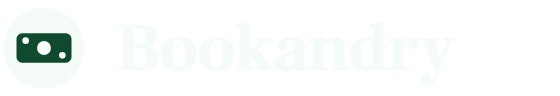
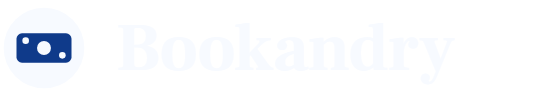
Account emails are sapphire like the app, with a neutral page behind them instead of the old green-grey

Changed region(s): [[0.0304, 0.3438, 0.1518, 0.6562]]

diff --git a/supabase/templates/reset-password.html b/supabase/templates/reset-password.html
@@ -8,25 +8,25 @@
 <meta name="supported-color-schemes" content="light">
 <title>איפוס סיסמה</title>
 </head>
-<body style="margin:0;padding:0;background:#f1f4f2;" dir="rtl">
+<body style="margin:0;padding:0;background:#f4f4f5;" dir="rtl">
 <div style="display:none;max-height:0;overflow:hidden;opacity:0;">בחירת סיסמה חדשה לחשבון Bookandry שלך.</div>
-<table role="presentation" width="100%" cellpadding="0" cellspacing="0" border="0" style="background:#f1f4f2;">
+<table role="presentation" width="100%" cellpadding="0" cellspacing="0" border="0" style="background:#f4f4f5;">
 <tr><td align="center" style="padding:32px 16px;">
 <table role="presentation" width="100%" cellpadding="0" cellspacing="0" border="0" style="max-width:560px;background:#ffffff;border-radius:16px;overflow:hidden;">
-<tr><td bgcolor="#0f492e" style="background:#0f492e;padding:28px 32px 20px;" align="right">
-<a href="https://bookandry.com" style="text-decoration:none;"><img src="https://bookandry.com/email/header.png" width="280" height="48" alt="Bookandry" style="display:block;border:0;width:280px;height:48px;color:#f5fcf7;font:700 28px Georgia,serif;"></a>
+<tr><td bgcolor="#0f3a8a" style="background:#0f3a8a;padding:28px 32px 20px;" align="right">
+<a href="https://bookandry.com" style="text-decoration:none;"><img src="https://bookandry.com/email/header.png" width="280" height="48" alt="Bookandry" style="display:block;border:0;width:280px;height:48px;color:#f7faff;font:700 28px Georgia,serif;"></a>
 </td></tr>
-<tr><td bgcolor="#0f492e" style="background:#0f492e;line-height:0;font-size:0;"><img src="https://bookandry.com/email/band.png" width="560" height="44" alt="" style="display:block;border:0;width:100%;max-width:560px;height:auto;"></td></tr>
+<tr><td bgcolor="#0f3a8a" style="background:#0f3a8a;line-height:0;font-size:0;"><img src="https://bookandry.com/email/band.png" width="560" height="44" alt="" style="display:block;border:0;width:100%;max-width:560px;height:auto;"></td></tr>
 <tr><td dir="rtl" align="right" style="padding:36px 32px 8px;font-family:-apple-system, BlinkMacSystemFont, 'Segoe UI', Roboto, Helvetica, Arial, sans-serif;color:#18181b;text-align:right;">
 <h1 style="margin:0 0 16px;font-size:24px;line-height:1.3;font-weight:700;color:#18181b;">איפוס סיסמה</h1>
 <p style="margin:0 0 28px;font-size:16px;line-height:1.6;color:#18181b;">התקבלה בקשה לאפס את הסיסמה של חשבון Bookandry <span dir="ltr" style="unicode-bidi:embed">{{ .Email }}</span>. אם הבקשה הגיעה ממך, אפשר לבחור סיסמה חדשה:</p>
 <table role="presentation" cellpadding="0" cellspacing="0" border="0" align="right" style="margin:0 0 28px;"><tr>
-<td bgcolor="#0f492e" style="border-radius:10px;background:#0f492e;">
+<td bgcolor="#0f3a8a" style="border-radius:10px;background:#0f3a8a;">
 <a href="{{ .ConfirmationURL }}" style="display:inline-block;padding:14px 28px;font-family:-apple-system, BlinkMacSystemFont, 'Segoe UI', Roboto, Helvetica, Arial, sans-serif;font-size:16px;font-weight:600;line-height:1;color:#ffffff;text-decoration:none;border-radius:10px;">בחירת סיסמה חדשה</a>
 </td></tr></table>
 <p style="clear:both;margin:0 0 24px;font-size:14px;line-height:1.6;color:#52525b;">לא ביקשת? אפשר להתעלם מהמייל הזה, והסיסמה תישאר כמו שהיא. הקישור עובד פעם אחת.</p>
 <p style="margin:0 0 8px;font-size:13px;line-height:1.5;color:#52525b;">הכפתור לא עובד? אפשר להעתיק את הקישור הזה לדפדפן:</p>
-<p dir="ltr" style="margin:0 0 28px;font-size:13px;line-height:1.5;word-break:break-all;text-align:left;"><a href="{{ .ConfirmationURL }}" style="color:#0f492e;">{{ .ConfirmationURL }}</a></p>
+<p dir="ltr" style="margin:0 0 28px;font-size:13px;line-height:1.5;word-break:break-all;text-align:left;"><a href="{{ .ConfirmationURL }}" style="color:#0f3a8a;">{{ .ConfirmationURL }}</a></p>
 </td></tr>
 <tr><td dir="rtl" align="right" style="padding:20px 32px 28px;border-top:1px solid #e4e4e7;font-family:-apple-system, BlinkMacSystemFont, 'Segoe UI', Roboto, Helvetica, Arial, sans-serif;font-size:12px;line-height:1.6;color:#52525b;text-align:right;">נשלח מ־Bookandry אל <span dir="ltr" style="unicode-bidi:embed">{{ .Email }}</span>. <a href="https://bookandry.com" style="color:#52525b;">bookandry.com</a></td></tr>
 </table>
@@ -44,25 +44,25 @@
 <meta name="supported-color-schemes" content="light">
 <title>Reset your password</title>
 </head>
-<body style="margin:0;padding:0;background:#f1f4f2;" dir="ltr">
+<body style="margin:0;padding:0;background:#f4f4f5;" dir="ltr">
 <div style="display:none;max-height:0;overflow:hidden;opacity:0;">Choose a new password for your Bookandry account.</div>
-<table role="presentation" width="100%" cellpadding="0" cellspacing="0" border="0" style="background:#f1f4f2;">
+<table role="presentation" width="100%" cellpadding="0" cellspacing="0" border="0" style="background:#f4f4f5;">
 <tr><td align="center" style="padding:32px 16px;">
 <table role="presentation" width="100%" cellpadding="0" cellspacing="0" border="0" style="max-width:560px;background:#ffffff;border-radius:16px;overflow:hidden;">
-<tr><td bgcolor="#0f492e" style="background:#0f492e;padding:28px 32px 20px;" align="left">
-<a href="https://bookandry.com" style="text-decoration:none;"><img src="https://bookandry.com/email/header.png" width="280" height="48" alt="Bookandry" style="display:block;border:0;width:280px;height:48px;color:#f5fcf7;font:700 28px Georgia,serif;"></a>
+<tr><td bgcolor="#0f3a8a" style="background:#0f3a8a;padding:28px 32px 20px;" align="left">
+<a href="https://bookandry.com" style="text-decoration:none;"><img src="https://bookandry.com/email/header.png" width="280" height="48" alt="Bookandry" style="display:block;border:0;width:280px;height:48px;color:#f7faff;font:700 28px Georgia,serif;"></a>
 </td></tr>
-<tr><td bgcolor="#0f492e" style="background:#0f492e;line-height:0;font-size:0;"><img src="https://bookandry.com/email/band.png" width="560" height="44" alt="" style="display:block;border:0;width:100%;max-width:560px;height:auto;"></td></tr>
+<tr><td bgcolor="#0f3a8a" style="background:#0f3a8a;line-height:0;font-size:0;"><img src="https://bookandry.com/email/band.png" width="560" height="44" alt="" style="display:block;border:0;width:100%;max-width:560px;height:auto;"></td></tr>
 <tr><td dir="ltr" align="left" style="padding:36px 32px 8px;font-family:-apple-system, BlinkMacSystemFont, 'Segoe UI', Roboto, Helvetica, Arial, sans-serif;color:#18181b;text-align:left;">
 <h1 style="margin:0 0 16px;font-size:24px;line-height:1.3;font-weight:700;color:#18181b;">Reset your password</h1>
 <p style="margin:0 0 28px;font-size:16px;line-height:1.6;color:#18181b;">Someone asked to reset the password for the Bookandry account <span dir="ltr" style="unicode-bidi:embed">{{ .Email }}</span>. If it was you, choose a new one:</p>
 <table role="presentation" cellpadding="0" cellspacing="0" border="0" align="left" style="margin:0 0 28px;"><tr>
-<td bgcolor="#0f492e" style="border-radius:10px;background:#0f492e;">
+<td bgcolor="#0f3a8a" style="border-radius:10px;background:#0f3a8a;">
 <a href="{{ .ConfirmationURL }}" style="display:inline-block;padding:14px 28px;font-family:-apple-system, BlinkMacSystemFont, 'Segoe UI', Roboto, Helvetica, Arial, sans-serif;font-size:16px;font-weight:600;line-height:1;color:#ffffff;text-decoration:none;border-radius:10px;">Choose a new password</a>
 </td></tr></table>
 <p style="clear:both;margin:0 0 24px;font-size:14px;line-height:1.6;color:#52525b;">Didn't ask for this? Ignore this email and your password stays as it is. The link works once.</p>
 <p style="margin:0 0 8px;font-size:13px;line-height:1.5;color:#52525b;">Button not working? Copy this link into your browser:</p>
-<p dir="ltr" style="margin:0 0 28px;font-size:13px;line-height:1.5;word-break:break-all;text-align:left;"><a href="{{ .ConfirmationURL }}" style="color:#0f492e;">{{ .ConfirmationURL }}</a></p>
+<p dir="ltr" style="margin:0 0 28px;font-size:13px;line-height:1.5;word-break:break-all;text-align:left;"><a href="{{ .ConfirmationURL }}" style="color:#0f3a8a;">{{ .ConfirmationURL }}</a></p>
 </td></tr>
 <tr><td dir="ltr" align="left" style="padding:20px 32px 28px;border-top:1px solid #e4e4e7;font-family:-apple-system, BlinkMacSystemFont, 'Segoe UI', Roboto, Helvetica, Arial, sans-serif;font-size:12px;line-height:1.6;color:#52525b;text-align:left;">Sent by Bookandry to <span dir="ltr" style="unicode-bidi:embed">{{ .Email }}</span>. <a href="https://bookandry.com" style="color:#52525b;">bookandry.com</a></td></tr>
 </table>

diff --git a/supabase/templates/confirm-signup.html b/supabase/templates/confirm-signup.html
@@ -8,25 +8,25 @@
 <meta name="supported-color-schemes" content="light">
 <title>אישור כתובת המייל</title>
 </head>
-<body style="margin:0;padding:0;background:#f1f4f2;" dir="rtl">
+<body style="margin:0;padding:0;background:#f4f4f5;" dir="rtl">
 <div style="display:none;max-height:0;overflow:hidden;opacity:0;">נשאר צעד אחד ליצירת החשבון ב־Bookandry.</div>
-<table role="presentation" width="100%" cellpadding="0" cellspacing="0" border="0" style="background:#f1f4f2;">
+<table role="presentation" width="100%" cellpadding="0" cellspacing="0" border="0" style="background:#f4f4f5;">
 <tr><td align="center" style="padding:32px 16px;">
 <table role="presentation" width="100%" cellpadding="0" cellspacing="0" border="0" style="max-width:560px;background:#ffffff;border-radius:16px;overflow:hidden;">
-<tr><td bgcolor="#0f492e" style="background:#0f492e;padding:28px 32px 20px;" align="right">
-<a href="https://bookandry.com" style="text-decoration:none;"><img src="https://bookandry.com/email/header.png" width="280" height="48" alt="Bookandry" style="display:block;border:0;width:280px;height:48px;color:#f5fcf7;font:700 28px Georgia,serif;"></a>
+<tr><td bgcolor="#0f3a8a" style="background:#0f3a8a;padding:28px 32px 20px;" align="right">
+<a href="https://bookandry.com" style="text-decoration:none;"><img src="https://bookandry.com/email/header.png" width="280" height="48" alt="Bookandry" style="display:block;border:0;width:280px;height:48px;color:#f7faff;font:700 28px Georgia,serif;"></a>
 </td></tr>
-<tr><td bgcolor="#0f492e" style="background:#0f492e;line-height:0;font-size:0;"><img src="https://bookandry.com/email/band.png" width="560" height="44" alt="" style="display:block;border:0;width:100%;max-width:560px;height:auto;"></td></tr>
+<tr><td bgcolor="#0f3a8a" style="background:#0f3a8a;line-height:0;font-size:0;"><img src="https://bookandry.com/email/band.png" width="560" height="44" alt="" style="display:block;border:0;width:100%;max-width:560px;height:auto;"></td></tr>
 <tr><td dir="rtl" align="right" style="padding:36px 32px 8px;font-family:-apple-system, BlinkMacSystemFont, 'Segoe UI', Roboto, Helvetica, Arial, sans-serif;color:#18181b;text-align:right;">
 <h1 style="margin:0 0 16px;font-size:24px;line-height:1.3;font-weight:700;color:#18181b;">אישור כתובת המייל</h1>
 <p style="margin:0 0 28px;font-size:16px;line-height:1.6;color:#18181b;">ברוכים הבאים ל־Bookandry. כדי לסיים ליצור את החשבון, צריך לאשר ש־<span dir="ltr" style="unicode-bidi:embed">{{ .Email }}</span> היא הכתובת שלך:</p>
 <table role="presentation" cellpadding="0" cellspacing="0" border="0" align="right" style="margin:0 0 28px;"><tr>
-<td bgcolor="#0f492e" style="border-radius:10px;background:#0f492e;">
+<td bgcolor="#0f3a8a" style="border-radius:10px;background:#0f3a8a;">
 <a href="{{ .ConfirmationURL }}" style="display:inline-block;padding:14px 28px;font-family:-apple-system, BlinkMacSystemFont, 'Segoe UI', Roboto, Helvetica, Arial, sans-serif;font-size:16px;font-weight:600;line-height:1;color:#ffffff;text-decoration:none;border-radius:10px;">אישור כתובת המייל</a>
 </td></tr></table>
 <p style="clear:both;margin:0 0 24px;font-size:14px;line-height:1.6;color:#52525b;">לא יצרת חשבון? אפשר להתעלם מהמייל הזה ושום דבר לא יקרה.</p>
 <p style="margin:0 0 8px;font-size:13px;line-height:1.5;color:#52525b;">הכפתור לא עובד? אפשר להעתיק את הקישור הזה לדפדפן:</p>
-<p dir="ltr" style="margin:0 0 28px;font-size:13px;line-height:1.5;word-break:break-all;text-align:left;"><a href="{{ .ConfirmationURL }}" style="color:#0f492e;">{{ .ConfirmationURL }}</a></p>
+<p dir="ltr" style="margin:0 0 28px;font-size:13px;line-height:1.5;word-break:break-all;text-align:left;"><a href="{{ .ConfirmationURL }}" style="color:#0f3a8a;">{{ .ConfirmationURL }}</a></p>
 </td></tr>
 <tr><td dir="rtl" align="right" style="padding:20px 32px 28px;border-top:1px solid #e4e4e7;font-family:-apple-system, BlinkMacSystemFont, 'Segoe UI', Roboto, Helvetica, Arial, sans-serif;font-size:12px;line-height:1.6;color:#52525b;text-align:right;">נשלח מ־Bookandry אל <span dir="ltr" style="unicode-bidi:embed">{{ .Email }}</span>. <a href="https://bookandry.com" style="color:#52525b;">bookandry.com</a></td></tr>
 </table>
@@ -44,25 +44,25 @@
 <meta name="supported-color-schemes" content="light">
 <title>Confirm your email</title>
 </head>
-<body style="margin:0;padding:0;background:#f1f4f2;" dir="ltr">
+<body style="margin:0;padding:0;background:#f4f4f5;" dir="ltr">
 <div style="display:none;max-height:0;overflow:hidden;opacity:0;">One step left to create your Bookandry account.</div>
-<table role="presentation" width="100%" cellpadding="0" cellspacing="0" border="0" style="background:#f1f4f2;">
+<table role="presentation" width="100%" cellpadding="0" cellspacing="0" border="0" style="background:#f4f4f5;">
 <tr><td align="center" style="padding:32px 16px;">
 <table role="presentation" width="100%" cellpadding="0" cellspacing="0" border="0" style="max-width:560px;background:#ffffff;border-radius:16px;overflow:hidden;">
-<tr><td bgcolor="#0f492e" style="background:#0f492e;padding:28px 32px 20px;" align="left">
-<a href="https://bookandry.com" style="text-decoration:none;"><img src="https://bookandry.com/email/header.png" width="280" height="48" alt="Bookandry" style="display:block;border:0;width:280px;height:48px;color:#f5fcf7;font:700 28px Georgia,serif;"></a>
+<tr><td bgcolor="#0f3a8a" style="background:#0f3a8a;padding:28px 32px 20px;" align="left">
+<a href="https://bookandry.com" style="text-decoration:none;"><img src="https://bookandry.com/email/header.png" width="280" height="48" alt="Bookandry" style="display:block;border:0;width:280px;height:48px;color:#f7faff;font:700 28px Georgia,serif;"></a>
 </td></tr>
-<tr><td bgcolor="#0f492e" style="background:#0f492e;line-height:0;font-size:0;"><img src="https://bookandry.com/email/band.png" width="560" height="44" alt="" style="display:block;border:0;width:100%;max-width:560px;height:auto;"></td></tr>
+<tr><td bgcolor="#0f3a8a" style="background:#0f3a8a;line-height:0;font-size:0;"><img src="https://bookandry.com/email/band.png" width="560" height="44" alt="" style="display:block;border:0;width:100%;max-width:560px;height:auto;"></td></tr>
 <tr><td dir="ltr" align="left" style="padding:36px 32px 8px;font-family:-apple-system, BlinkMacSystemFont, 'Segoe UI', Roboto, Helvetica, Arial, sans-serif;color:#18181b;text-align:left;">
 <h1 style="margin:0 0 16px;font-size:24px;line-height:1.3;font-weight:700;color:#18181b;">Confirm your email</h1>
 <p style="margin:0 0 28px;font-size:16px;line-height:1.6;color:#18181b;">Welcome to Bookandry. Confirm that <span dir="ltr" style="unicode-bidi:embed">{{ .Email }}</span> is your address to finish creating your account:</p>
 <table role="presentation" cellpadding="0" cellspacing="0" border="0" align="left" style="margin:0 0 28px;"><tr>
-<td bgcolor="#0f492e" style="border-radius:10px;background:#0f492e;">
+<td bgcolor="#0f3a8a" style="border-radius:10px;background:#0f3a8a;">
 <a href="{{ .ConfirmationURL }}" style="display:inline-block;padding:14px 28px;font-family:-apple-system, BlinkMacSystemFont, 'Segoe UI', Roboto, Helvetica, Arial, sans-serif;font-size:16px;font-weight:600;line-height:1;color:#ffffff;text-decoration:none;border-radius:10px;">Confirm email</a>
 </td></tr></table>
 <p style="clear:both;margin:0 0 24px;font-size:14px;line-height:1.6;color:#52525b;">Didn't create an account? Ignore this email and nothing will happen.</p>
 <p style="margin:0 0 8px;font-size:13px;line-height:1.5;color:#52525b;">Button not working? Copy this link into your browser:</p>
-<p dir="ltr" style="margin:0 0 28px;font-size:13px;line-height:1.5;word-break:break-all;text-align:left;"><a href="{{ .ConfirmationURL }}" style="color:#0f492e;">{{ .ConfirmationURL }}</a></p>
+<p dir="ltr" style="margin:0 0 28px;font-size:13px;line-height:1.5;word-break:break-all;text-align:left;"><a href="{{ .ConfirmationURL }}" style="color:#0f3a8a;">{{ .ConfirmationURL }}</a></p>
 </td></tr>
 <tr><td dir="ltr" align="left" style="padding:20px 32px 28px;border-top:1px solid #e4e4e7;font-family:-apple-system, BlinkMacSystemFont, 'Segoe UI', Roboto, Helvetica, Arial, sans-serif;font-size:12px;line-height:1.6;color:#52525b;text-align:left;">Sent by Bookandry to <span dir="ltr" style="unicode-bidi:embed">{{ .Email }}</span>. <a href="https://bookandry.com" style="color:#52525b;">bookandry.com</a></td></tr>
 </table>
